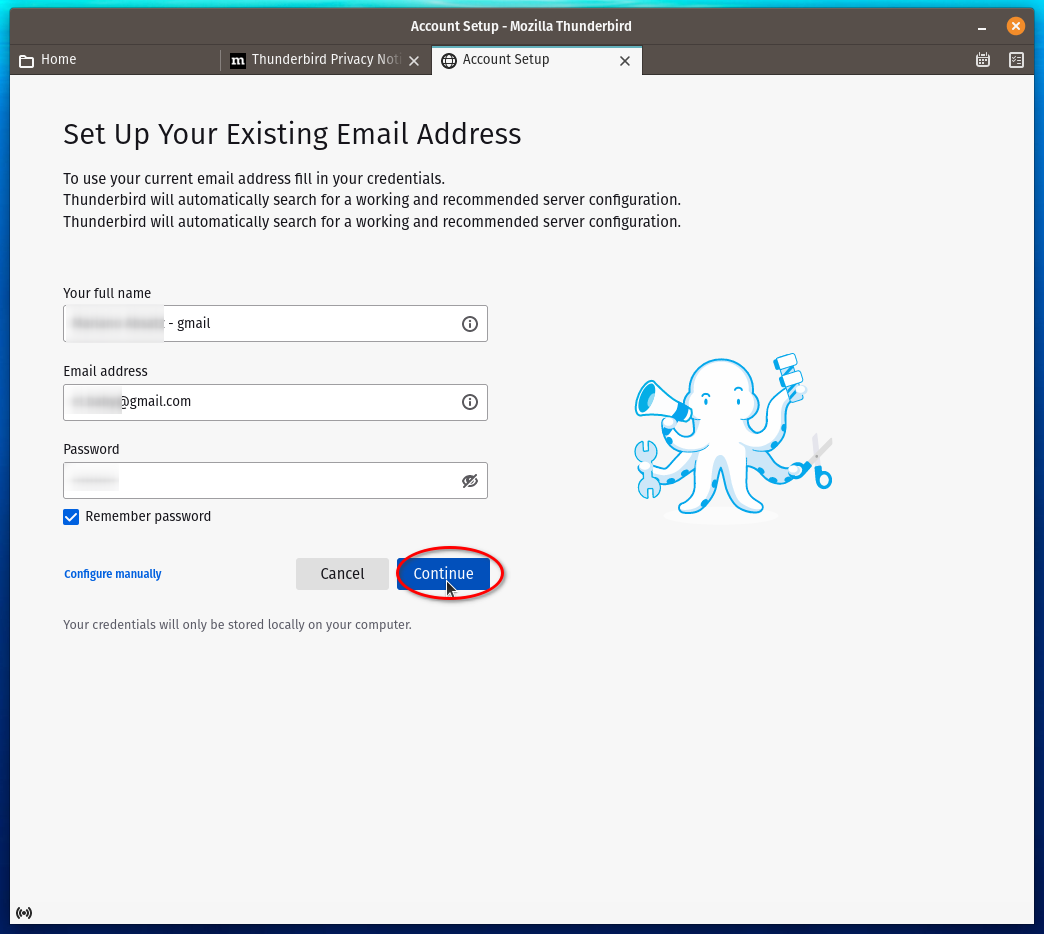
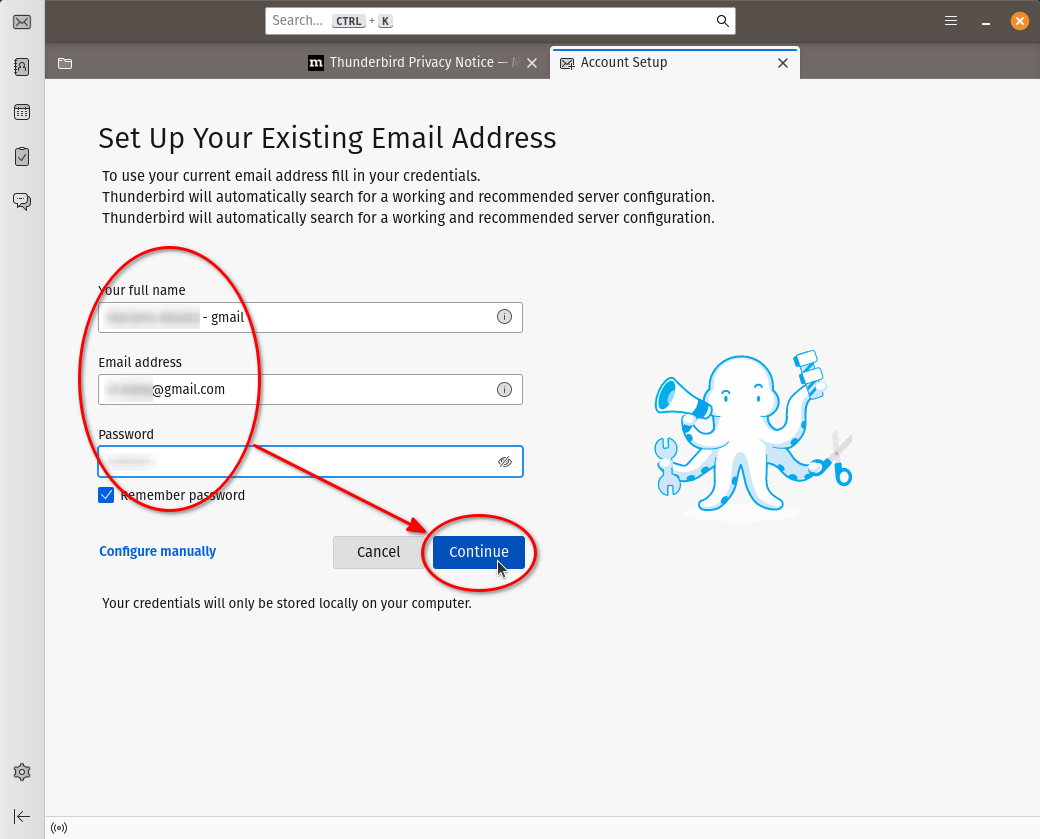
empiezo a ajustar el proceso OAuth de gmail

Changed region(s): [[0.0, 0.0, 1.0, 1.0], [0.5846, 0.3719, 0.8308, 0.6198]]

diff --git a/Linux/ThunderbirdFlatpak.md b/Linux/ThunderbirdFlatpak.md
@@ -126,7 +126,9 @@ Para finalizar, cerramos el tab de preferencias:
 
 ## Configurar cuenta de correo de GMail
 
-![Account Settings/Email](img/thunderbird-27-accountsettings_email.png)
+![Account Settings/Email](img/thunderbird-29-newaccount.png)
+
+![Account Settings/Email](img/thunderbird-30-newaccount.png)
 
 ![Account Settings/Set Up GMail](img/thunderbird-28-accountsettings_gmail.png)
 
